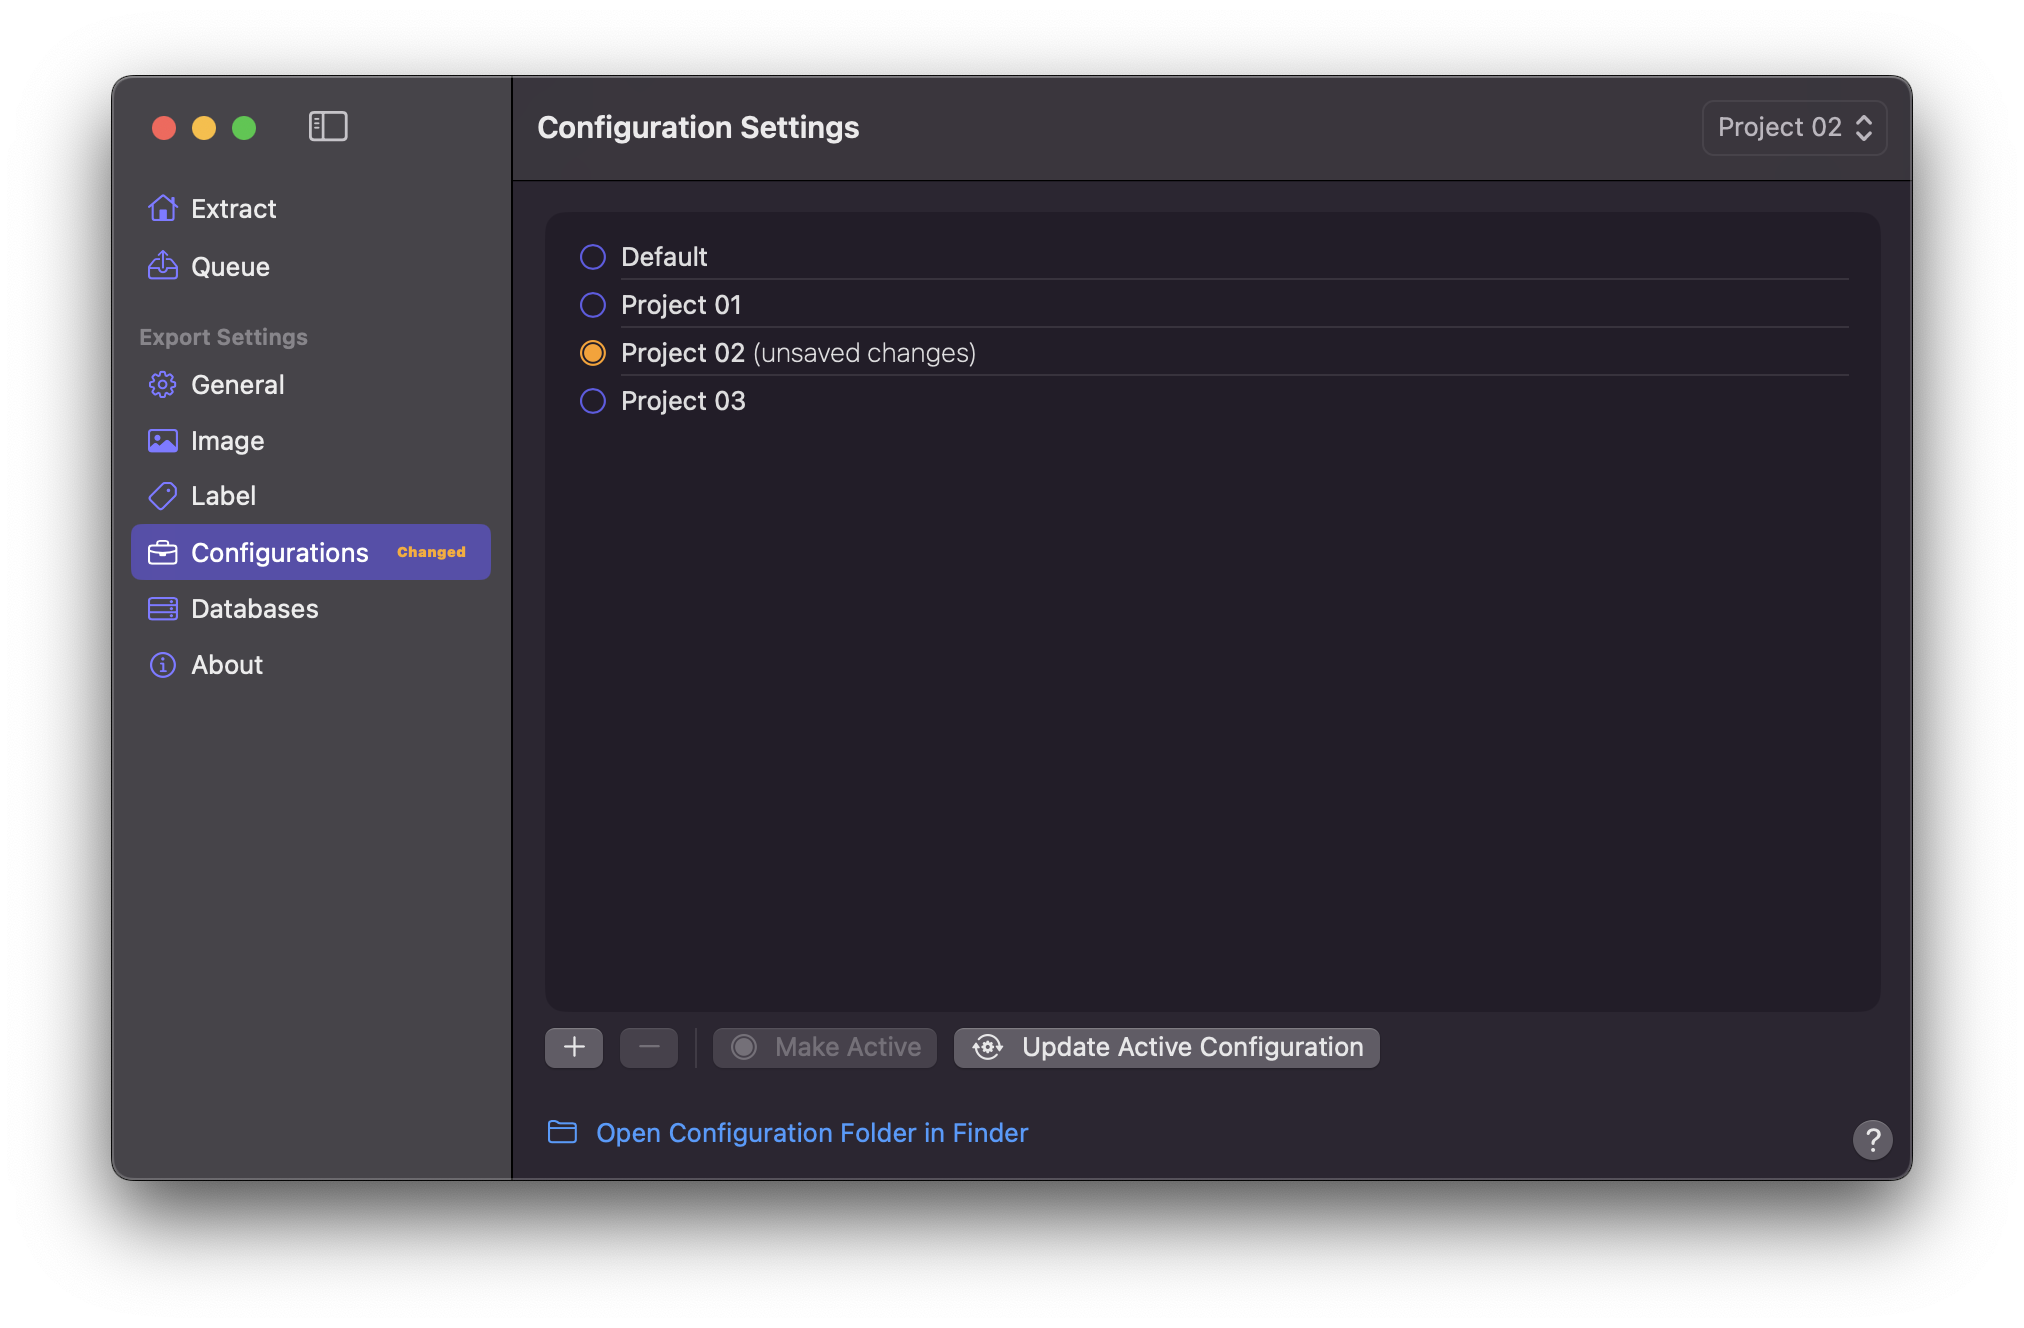
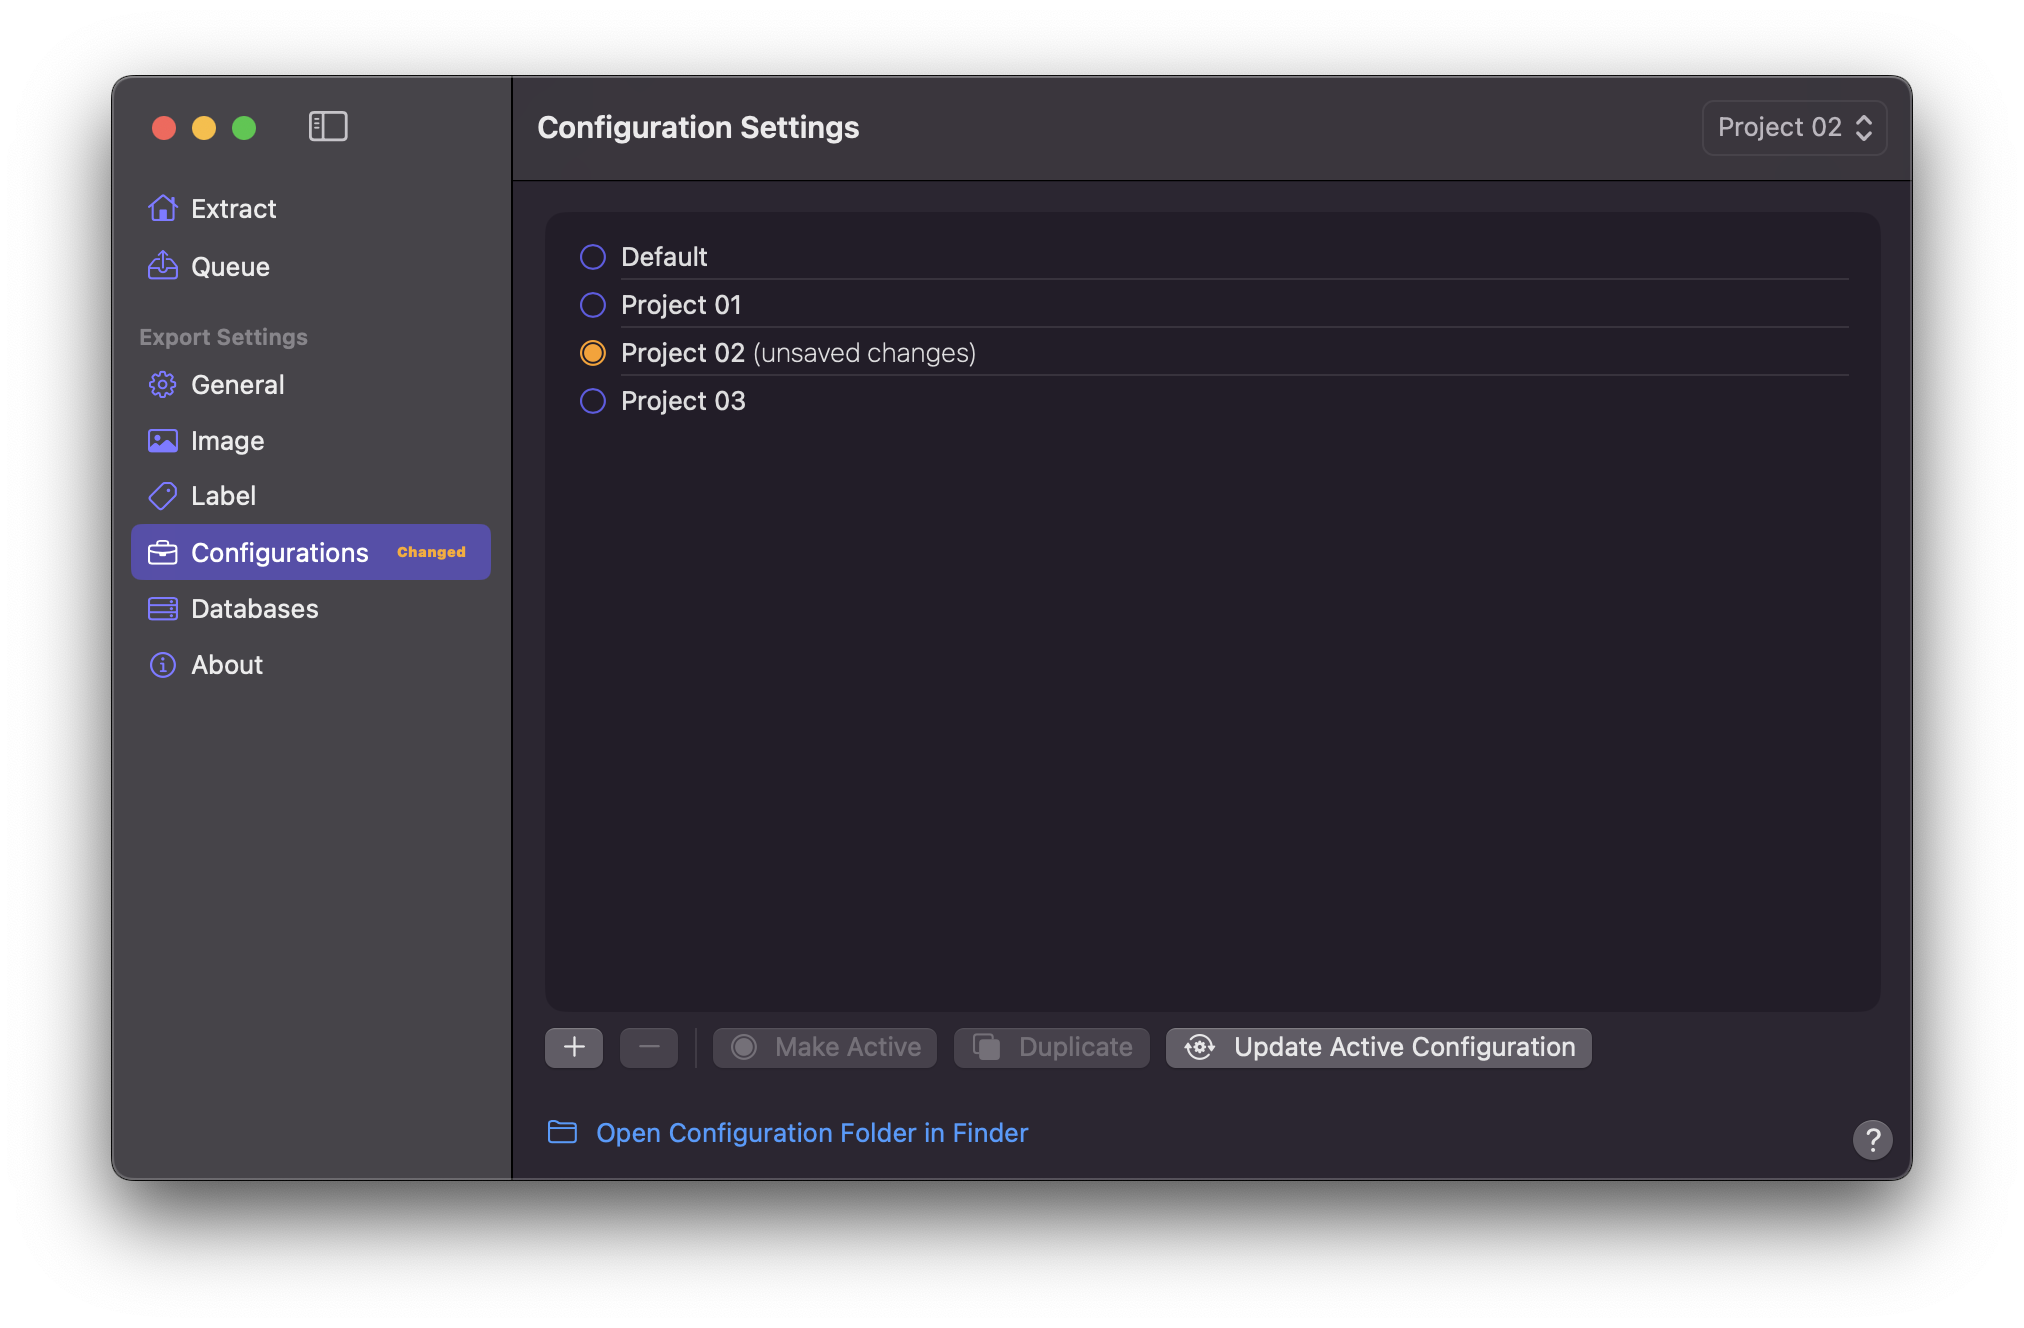
Update

Changed region(s): [[0.4669, 0.7718, 0.8093, 0.8027]]

diff --git a/docs/User Guide/Configurations.md b/docs/User Guide/Configurations.md
@@ -63,6 +63,14 @@ You can also click on the `Quick Configurations Selector` menu located on the to
 
 2. Click on your desired Configuration to `Make Active`.
 
+## Duplicate Configuration
+
+You have the ability to duplicate any Configuration by clicking on the `Duplicate` button.
+
+!!!info Info
+Through the utilisation of the `Duplicate` button, you can effortlessly generate numerous Configurations with various settings applied.
+!!!
+
 ## Update Active Configuration
 
 On any Active Configuration, modifications to any settings prompts the display of a `Changed` badge adjacent to the Configuration side panel.

diff --git a/docs/User Guide/Overview.md b/docs/User Guide/Overview.md
@@ -20,6 +20,10 @@ Notwithstanding the emphasis on user-friendly design, this website stands ready 
 3. Move **Marker Data** to your Applications folder.
 4. Launch **Marker Data**.
 
+!!!warning Warning
+**Marker Data** must be installed in the Applications folder to run correctly. Running the application outside of this designated directory would result in functionality issues.
+!!!
+
 ## Uninstall
 
 ![Uninstall Marker Data](/assets/md-uninstall.png)
